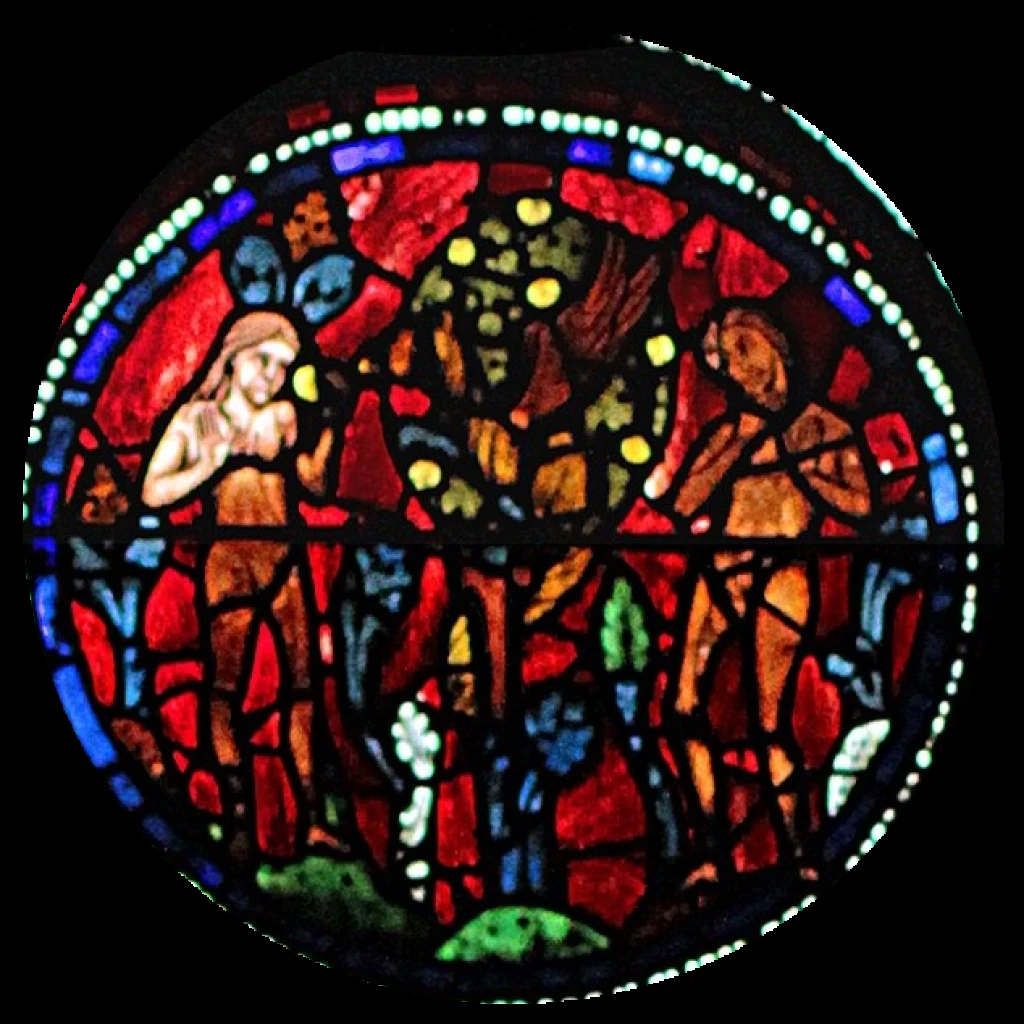
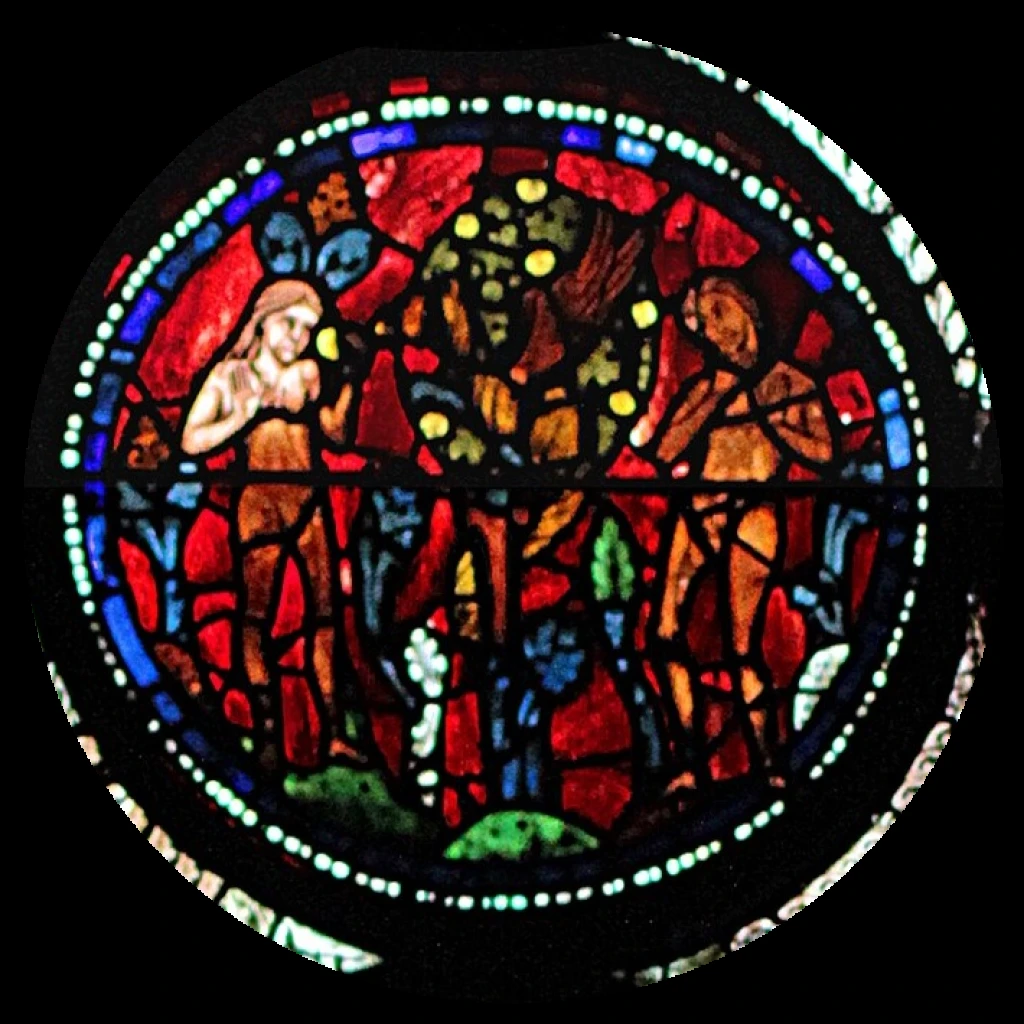
Heir: Today's window fills in from dark on every visit; first name only; Creation medallion re-centred
Each time Today opens, the window starts dark and lights pane by pane up to where you are, while
the gold arc and the notch glide round the frame with it. The greeting uses the first name. The
Apostles' Creed medallion is re-cut on its true centre, found from its pearled border.

Claude-Session: https://claude.ai/code/session_012h91uo7SQKGKrBefW5CTYU

diff --git a/src/app/heir/page.tsx b/src/app/heir/page.tsx
@@ -5,7 +5,7 @@
 
 import Link from 'next/link';
 import { useRouter } from 'next/navigation';
-import { useEffect } from 'react';
+import { useEffect, useMemo, useRef, useState } from 'react';
 import { useHeir } from './ui/provider';
 import { groupLabel, useCourse } from './ui/course';
 import { Tabs } from './ui/tabs';
@@ -19,7 +19,8 @@ import { unitsFor } from '@/heir/lesson';
 import { greeting } from '@/heir/time';
 import type { Track } from '@/heir/types';
 import { RoundWindow } from './ui/glass/round';
-import { partWindow } from './ui/glass/light';
+import { partWindow, type PartWindow } from './ui/glass/light';
+import type { WindowHandle } from './ui/glass/window';
 
 export default function Today() {
   const { ready, household, time, now } = useHeir();
@@ -50,7 +51,7 @@ export default function Today() {
     <>
       <main className="hr-page">
         <header style={{ display: 'flex', justifyContent: 'space-between', alignItems: 'center', padding: '0 4px', marginTop: 12 }}>
-          <h1 className="serif" style={{ margin: 0, fontSize: 26, fontWeight: 500, lineHeight: 1.15 }}>{greeting(time)}, {me.name}</h1>
+          <h1 className="serif" style={{ margin: 0, fontSize: 26, fontWeight: 500, lineHeight: 1.15 }}>{greeting(time)}, {me.name.trim().split(/\s+/)[0]}</h1>
           <Link href="/heir/family" aria-label={`Profiles (now ${me.name})`} style={{ width: 44, height: 44, borderRadius: 22, background: 'var(--card)', color: 'var(--ink)', display: 'flex', alignItems: 'center', justifyContent: 'center', fontWeight: 600, fontSize: 17, textDecoration: 'none', flex: 'none' }}>{me.name[0]}</Link>
         </header>
 
@@ -61,7 +62,7 @@ export default function Today() {
             {light.count > 1 && <span className="hr-label">Part {light.index + 1} of {light.count}</span>}
             <h2 className="serif" style={{ margin: 0, fontSize: 26, fontWeight: 500, lineHeight: 1.1 }}>{light.title}</h2>
           </div>
-          <RoundWindow key={light.base} base={light.base} lit={light.lit} dusty={light.dusty} share={light.share} hint={plan && (plan.kind === 'welcome' || plan.kind === 'learn') && light.next >= 0 ? light.next : undefined} />
+          <TodayWindow key={light.base} light={light} hint={plan && (plan.kind === 'welcome' || plan.kind === 'learn') && light.next >= 0 ? light.next : undefined} />
           <span style={{ fontSize: 13, color: '#C9C1B3' }}>{learnedCount} of {light.items.length} {noun} lit</span>
           {start ? (
             <Link className="hr-glass-btn" href="/heir/lesson"><span>{start}</span>
@@ -197,5 +198,31 @@ function UnitCard({ unit, mine, track, now }: { unit: PathUnit; mine: MemberProg
         </ol>
       ) : <p style={{ margin: 0, fontSize: 14, color: 'var(--muted)' }}>{unit.group.items.length} questions. Opens when the unit before is locked in.</p>}
     </section>
+  );
+}
+
+// Each time Today opens, the window starts dark and lights pane by pane up to where you are, while the gold
+// arc on the frame grows round with it: your progress, shown fresh every visit.
+function TodayWindow({ light, hint }: { light: PartWindow; hint?: number }) {
+  const win = useRef<WindowHandle>(null);
+  const dark = useMemo(() => light.lit.map(() => 0), [light.lit]);
+  const [share, setShare] = useState(0);
+  const [arcMs, setArcMs] = useState(900);
+  const [settled, setSettled] = useState(false);
+  const ready = () => {
+    const pieces = win.current?.meta()?.count ?? 500;
+    const lit = Math.round(light.share * pieces);
+    // The engine spaces panes so the whole sweep takes about two and a half seconds at most.
+    const sweep = lit ? Math.min(2400, lit * 130) + 600 : 0;
+    setTimeout(() => {
+      win.current?.revealTo(light.lit);
+      setArcMs(Math.max(600, sweep));
+      setShare(light.share);
+      setTimeout(() => setSettled(true), sweep);
+    }, 350);
+  };
+  return (
+    <RoundWindow ref={win} base={light.base} lit={dark} dusty={settled ? light.dusty : undefined} hint={settled ? hint : undefined}
+      share={share} arcMs={arcMs} onReady={ready} label={`Your window: ${Math.round(light.share * 100)}% lit`} />
   );
 }

diff --git a/src/app/heir/ui/glass/round.tsx b/src/app/heir/ui/glass/round.tsx
@@ -18,15 +18,16 @@ type Props = {
   onReady?: () => void;
   paneDelay?: number;
   label?: string;
+  /** How long the gold arc takes to move to a new share (ms). */
+  arcMs?: number;
 };
 
-export const RoundWindow = forwardRef<WindowHandle, Props>(function RoundWindow({ base, lit, dusty, hint, share, size = 300, onReady, paneDelay, label }, ref) {
+export const RoundWindow = forwardRef<WindowHandle, Props>(function RoundWindow({ base, lit, dusty, hint, share, size = 300, onReady, paneDelay, label, arcMs = 900 }, ref) {
   // Frame geometry in a 324-unit box; the glass sits inside a circle of radius 146.
   const C = 162, R = 152.5;
-  const a = Math.max(0, Math.min(0.9999, share)) * 2 * Math.PI;
-  const pt = (r: number, t: number) => `${(C + r * Math.sin(t)).toFixed(2)} ${(C - r * Math.cos(t)).toFixed(2)}`;
-  const arc = share > 0 ? `M${pt(R, 0)} A${R} ${R} 0 ${share > 0.5 ? 1 : 0} 1 ${pt(R, a)}` : '';
-  const [nx, ny] = [C + 156 * Math.sin(a), C - 156 * Math.cos(a)];
+  const f = Math.max(0, Math.min(1, share));
+  // The arc is a full circle drawn only as far as the share; it and the notch glide when the share changes.
+  const glide = `${arcMs}ms cubic-bezier(.3,.6,.25,1)`;
   const glass = (size * 292) / 324, inset = (size - glass) / 2;
   return (
     <div className="hr-round" style={{ width: size, height: size }} role="img" aria-label={label ?? `Your window: ${Math.round(share * 100)}% lit`}>
@@ -42,8 +43,13 @@ export const RoundWindow = forwardRef<WindowHandle, Props>(function RoundWindow(
         <circle cx={C} cy={C} r="156" fill="none" stroke="url(#hr-round-stone)" strokeWidth="11" />
         <circle cx={C} cy={C} r="161.5" fill="none" stroke="rgba(0,0,0,0.45)" strokeWidth="1" />
         <circle cx={C} cy={C} r="150.6" fill="none" stroke="rgba(255,240,215,0.22)" strokeWidth="0.8" />
-        {arc && <path d={arc} fill="none" stroke="#F1C46B" strokeWidth="2.4" strokeLinecap="round" />}
-        {share < 1 && <circle className="hr-round-notch" cx={nx.toFixed(2)} cy={ny.toFixed(2)} r="4" fill="#FFE2A8" />}
+        <circle cx={C} cy={C} r={R} pathLength={100} fill="none" stroke="#F1C46B" strokeWidth="2.4" strokeLinecap="round"
+          strokeDasharray={`${f * 100} 100`} transform={`rotate(-90 ${C} ${C})`} style={{ transition: `stroke-dasharray ${glide}`, opacity: f > 0 ? 1 : 0 }} />
+        {f < 1 && (
+          <g style={{ transform: `rotate(${f * 360}deg)`, transformOrigin: `${C}px ${C}px`, transition: `transform ${glide}` }}>
+            <circle className="hr-round-notch" cx={C} cy={C - 156} r="4" fill="#FFE2A8" />
+          </g>
+        )}
         <g className="hr-round-sweep"><path d={`M${C} ${C} L${C} 10 A152 152 0 0 1 238 31 Z`} fill="url(#hr-round-sheen)" opacity="0.7" /></g>
       </svg>
     </div>
